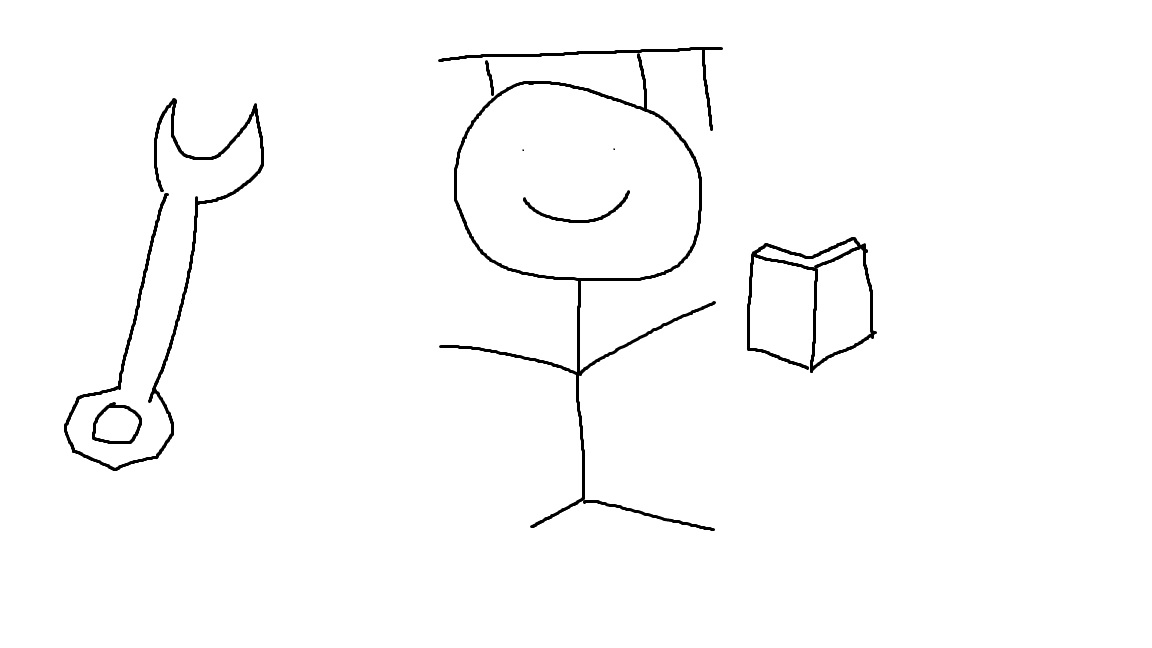
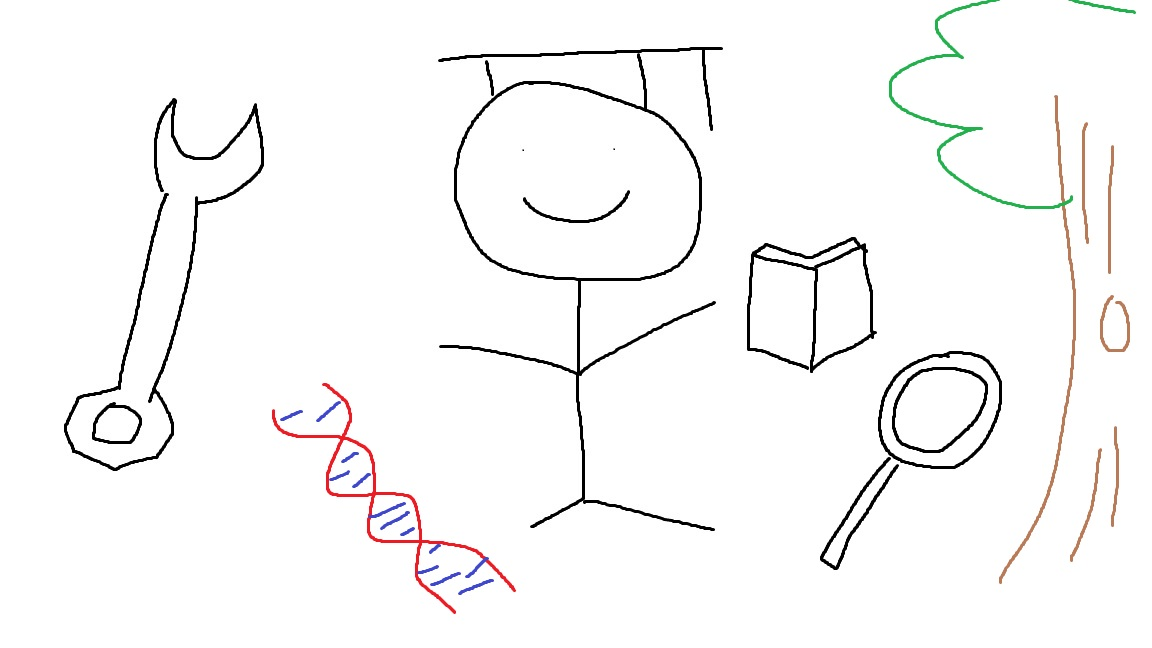
website updates

diff --git a/Microsoft-Hackathon/client/src/App.jsx b/Microsoft-Hackathon/client/src/App.jsx
@@ -3,7 +3,7 @@ import reactLogo from './assets/react.svg'
 import viteLogo from '/vite.svg'
 import './App.css'
 import axios from 'axios'
-import myDrawing from './assets/Untitled.jpg'
+import myDrawing from './assets/canvas.png'
 
 function App() {
   const [count, setCount] = useState(0)
@@ -14,17 +14,15 @@ function App() {
 
   return (
     <>
+    
       <div>
         <a>
         <img src={myDrawing} alt="college image"/>
         </a>
       </div>
-      <h1>College Major Quiz</h1>
+      <h1>College Major Suggestion Tool</h1>
+      <p>Let artificial intelligence help provide insight into choosing your career path! </p>
       <p>Tell us about youself. What are your passions in life. Your life goals. What interests you?</p>
-      <p>Let artificial intelligence help provide insight into choosing your career path!</p>
-
-
-
     </>
   )
 }

diff --git a/Microsoft-Hackathon/client/src/components/Results.jsx b/Microsoft-Hackathon/client/src/components/Results.jsx
@@ -9,7 +9,7 @@ const [showData, setShowData] = useState(false);
     const [loading, setLoading] = useState(false);
       const fetchData = async () => {
         setLoading(true);
-        const response = await axios.post('http://127.0.0.1:5000/find', {user_text: inputValue})
+        const response = await axios.post('http://127.0.0.1:8000/find', {user_text: inputValue})
        .then((res) => {setData(res.data);console.log(res.data); setLoading(false);})
        .catch((err) => console.log(err));
         

diff --git a/Microsoft-Hackathon/client/src/index.css b/Microsoft-Hackathon/client/src/index.css
@@ -1,11 +1,11 @@
 :root {
   font-family: Inter, system-ui, Avenir, Helvetica, Arial, sans-serif;
-  line-height: 1.5;
+  line-height: 2.5;
   font-weight: 400;
 
   color-scheme: light dark;
   color: rgba(255, 255, 255, 0.87);
-  background-color: #242424;
+  background-color: rgb(85, 85, 85);
 
   font-synthesis: none;
   text-rendering: optimizeLegibility;
@@ -67,3 +67,4 @@ button:focus-visible {
     background-color: #f9f9f9;
   }
 }
+
